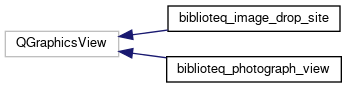
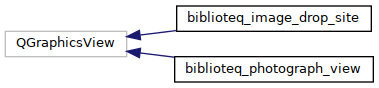
Doxygen.

Changed region(s): [[0.0288, 0.0455, 0.951, 0.9545], [0.9798, 0.6364, 1.0, 0.9318], [0.8934, 0.7045, 0.9222, 0.7273]]

diff --git a/Documentation/Doxygen/html/hierarchy.html b/Documentation/Doxygen/html/hierarchy.html
@@ -87,38 +87,38 @@ This inheritance list is sorted roughly, but not completely, alphabetically:</di
 <tr id="row_6_0_"><td class="entry"><span style="width:32px;display:inline-block;">&#160;</span><span class="icona"><span class="icon">C</span></span><a class="el" href="classbiblioteq__borrowers__editor.html" target="_self">biblioteq_borrowers_editor</a></td><td class="desc"></td></tr>
 <tr id="row_6_1_" class="even"><td class="entry"><span style="width:16px;display:inline-block;">&#160;</span><span id="arr_6_1_" class="arrow" onclick="toggleFolder('6_1_')">&#9660;</span><span class="icona"><span class="icon">C</span></span><a class="el" href="classbiblioteq__copy__editor.html" target="_self">biblioteq_copy_editor</a></td><td class="desc"></td></tr>
 <tr id="row_6_1_0_"><td class="entry"><span style="width:48px;display:inline-block;">&#160;</span><span class="icona"><span class="icon">C</span></span><a class="el" href="classbiblioteq__copy__editor__book.html" target="_self">biblioteq_copy_editor_book</a></td><td class="desc"></td></tr>
-<tr id="row_6_2_" class="even"><td class="entry"><span style="width:32px;display:inline-block;">&#160;</span><span class="icona"><span class="icon">C</span></span><a class="el" href="classbiblioteq__sruresults.html" target="_self">biblioteq_sruresults</a></td><td class="desc"></td></tr>
-<tr id="row_6_3_"><td class="entry"><span style="width:32px;display:inline-block;">&#160;</span><span class="icona"><span class="icon">C</span></span><a class="el" href="classbiblioteq__z3950results.html" target="_self">biblioteq_z3950results</a></td><td class="desc"></td></tr>
-<tr id="row_6_4_" class="even"><td class="entry"><span style="width:32px;display:inline-block;">&#160;</span><span class="icona"><span class="icon">C</span></span><a class="el" href="classuserinfo__diag__class.html" target="_self">userinfo_diag_class</a></td><td class="desc"></td></tr>
-<tr id="row_7_"><td class="entry"><span style="width:0px;display:inline-block;">&#160;</span><span id="arr_7_" class="arrow" onclick="toggleFolder('7_')">&#9660;</span><span class="icona"><span class="icon">C</span></span><b>QGraphicsPixmapItem</b></td><td class="desc"></td></tr>
-<tr id="row_7_0_" class="even"><td class="entry"><span style="width:32px;display:inline-block;">&#160;</span><span class="icona"><span class="icon">C</span></span><a class="el" href="classbiblioteq__graphicsitempixmap.html" target="_self">biblioteq_graphicsitempixmap</a></td><td class="desc"></td></tr>
-<tr id="row_8_"><td class="entry"><span style="width:0px;display:inline-block;">&#160;</span><span id="arr_8_" class="arrow" onclick="toggleFolder('8_')">&#9660;</span><span class="icona"><span class="icon">C</span></span><b>QGraphicsScene</b></td><td class="desc"></td></tr>
-<tr id="row_8_0_" class="even"><td class="entry"><span style="width:32px;display:inline-block;">&#160;</span><span class="icona"><span class="icon">C</span></span><a class="el" href="classbiblioteq__bgraphicsscene.html" target="_self">biblioteq_bgraphicsscene</a></td><td class="desc"></td></tr>
-<tr id="row_9_"><td class="entry"><span style="width:0px;display:inline-block;">&#160;</span><span id="arr_9_" class="arrow" onclick="toggleFolder('9_')">&#9660;</span><span class="icona"><span class="icon">C</span></span><b>QGraphicsView</b></td><td class="desc"></td></tr>
-<tr id="row_9_0_" class="even"><td class="entry"><span style="width:32px;display:inline-block;">&#160;</span><span class="icona"><span class="icon">C</span></span><a class="el" href="classbiblioteq__image__drop__site.html" target="_self">biblioteq_image_drop_site</a></td><td class="desc"></td></tr>
-<tr id="row_9_1_"><td class="entry"><span style="width:32px;display:inline-block;">&#160;</span><span class="icona"><span class="icon">C</span></span><a class="el" href="classbiblioteq__photograph__view.html" target="_self">biblioteq_photograph_view</a></td><td class="desc"></td></tr>
-<tr id="row_10_" class="even"><td class="entry"><span style="width:0px;display:inline-block;">&#160;</span><span id="arr_10_" class="arrow" onclick="toggleFolder('10_')">&#9660;</span><span class="icona"><span class="icon">C</span></span><b>QLineEdit</b></td><td class="desc"></td></tr>
-<tr id="row_10_0_"><td class="entry"><span style="width:32px;display:inline-block;">&#160;</span><span class="icona"><span class="icon">C</span></span><a class="el" href="classbiblioteq__otheroptions__shortcut__lineedit.html" target="_self">biblioteq_otheroptions_shortcut_lineedit</a></td><td class="desc"></td></tr>
-<tr id="row_11_" class="even"><td class="entry"><span style="width:0px;display:inline-block;">&#160;</span><span id="arr_11_" class="arrow" onclick="toggleFolder('11_')">&#9660;</span><span class="icona"><span class="icon">C</span></span><b>QMainWindow</b></td><td class="desc"></td></tr>
-<tr id="row_11_0_"><td class="entry"><span style="width:32px;display:inline-block;">&#160;</span><span class="icona"><span class="icon">C</span></span><a class="el" href="classbiblioteq.html" target="_self">biblioteq</a></td><td class="desc"></td></tr>
-<tr id="row_11_1_" class="even"><td class="entry"><span style="width:32px;display:inline-block;">&#160;</span><span class="icona"><span class="icon">C</span></span><a class="el" href="classbiblioteq__batch__activities.html" target="_self">biblioteq_batch_activities</a></td><td class="desc"></td></tr>
-<tr id="row_11_2_"><td class="entry"><span style="width:32px;display:inline-block;">&#160;</span><span class="icona"><span class="icon">C</span></span><a class="el" href="classbiblioteq__book.html" target="_self">biblioteq_book</a></td><td class="desc"></td></tr>
-<tr id="row_11_3_" class="even"><td class="entry"><span style="width:32px;display:inline-block;">&#160;</span><span class="icona"><span class="icon">C</span></span><a class="el" href="classbiblioteq__cd.html" target="_self">biblioteq_cd</a></td><td class="desc"></td></tr>
-<tr id="row_11_4_"><td class="entry"><span style="width:32px;display:inline-block;">&#160;</span><span class="icona"><span class="icon">C</span></span><a class="el" href="classbiblioteq__custom__query.html" target="_self">biblioteq_custom_query</a></td><td class="desc"></td></tr>
-<tr id="row_11_5_" class="even"><td class="entry"><span style="width:32px;display:inline-block;">&#160;</span><span class="icona"><span class="icon">C</span></span><a class="el" href="classbiblioteq__dbenumerations.html" target="_self">biblioteq_dbenumerations</a></td><td class="desc"></td></tr>
-<tr id="row_11_6_"><td class="entry"><span style="width:32px;display:inline-block;">&#160;</span><span class="icona"><span class="icon">C</span></span><a class="el" href="classbiblioteq__documentationwindow.html" target="_self">biblioteq_documentationwindow</a></td><td class="desc"></td></tr>
-<tr id="row_11_7_" class="even"><td class="entry"><span style="width:32px;display:inline-block;">&#160;</span><span class="icona"><span class="icon">C</span></span><a class="el" href="classbiblioteq__dvd.html" target="_self">biblioteq_dvd</a></td><td class="desc"></td></tr>
-<tr id="row_11_8_"><td class="entry"><span style="width:32px;display:inline-block;">&#160;</span><span class="icona"><span class="icon">C</span></span><a class="el" href="classbiblioteq__files.html" target="_self">biblioteq_files</a></td><td class="desc"></td></tr>
-<tr id="row_11_9_" class="even"><td class="entry"><span style="width:32px;display:inline-block;">&#160;</span><span class="icona"><span class="icon">C</span></span><a class="el" href="classbiblioteq__grey__literature.html" target="_self">biblioteq_grey_literature</a></td><td class="desc"></td></tr>
-<tr id="row_11_10_"><td class="entry"><span style="width:32px;display:inline-block;">&#160;</span><span class="icona"><span class="icon">C</span></span><a class="el" href="classbiblioteq__import.html" target="_self">biblioteq_import</a></td><td class="desc"></td></tr>
-<tr id="row_11_11_" class="even"><td class="entry"><span style="width:32px;display:inline-block;">&#160;</span><span class="icona"><span class="icon">C</span></span><a class="el" href="classbiblioteq__magazine.html" target="_self">biblioteq_magazine</a></td><td class="desc"></td></tr>
-<tr id="row_11_12_"><td class="entry"><span style="width:32px;display:inline-block;">&#160;</span><span class="icona"><span class="icon">C</span></span><a class="el" href="classbiblioteq__magic.html" target="_self">biblioteq_magic</a></td><td class="desc"></td></tr>
-<tr id="row_11_13_" class="even"><td class="entry"><span style="width:32px;display:inline-block;">&#160;</span><span class="icona"><span class="icon">C</span></span><a class="el" href="classbiblioteq__otheroptions.html" target="_self">biblioteq_otheroptions</a></td><td class="desc"></td></tr>
-<tr id="row_11_14_"><td class="entry"><span style="width:32px;display:inline-block;">&#160;</span><span class="icona"><span class="icon">C</span></span><a class="el" href="classbiblioteq__pdfreader.html" target="_self">biblioteq_pdfreader</a></td><td class="desc"></td></tr>
-<tr id="row_11_15_" class="even"><td class="entry"><span style="width:32px;display:inline-block;">&#160;</span><span class="icona"><span class="icon">C</span></span><a class="el" href="classbiblioteq__photographcollection.html" target="_self">biblioteq_photographcollection</a></td><td class="desc"></td></tr>
-<tr id="row_11_16_"><td class="entry"><span style="width:32px;display:inline-block;">&#160;</span><span class="icona"><span class="icon">C</span></span><a class="el" href="classbiblioteq__query__history.html" target="_self">biblioteq_query_history</a></td><td class="desc"></td></tr>
-<tr id="row_11_17_" class="even"><td class="entry"><span style="width:32px;display:inline-block;">&#160;</span><span class="icona"><span class="icon">C</span></span><a class="el" href="classbiblioteq__sqlite__merge__databases.html" target="_self">biblioteq_sqlite_merge_databases</a></td><td class="desc"></td></tr>
-<tr id="row_11_18_"><td class="entry"><span style="width:32px;display:inline-block;">&#160;</span><span class="icona"><span class="icon">C</span></span><a class="el" href="classbiblioteq__videogame.html" target="_self">biblioteq_videogame</a></td><td class="desc"></td></tr>
+<tr id="row_6_2_" class="even"><td class="entry"><span style="width:32px;display:inline-block;">&#160;</span><span class="icona"><span class="icon">C</span></span><a class="el" href="classbiblioteq__query__history.html" target="_self">biblioteq_query_history</a></td><td class="desc"></td></tr>
+<tr id="row_6_3_"><td class="entry"><span style="width:32px;display:inline-block;">&#160;</span><span class="icona"><span class="icon">C</span></span><a class="el" href="classbiblioteq__sruresults.html" target="_self">biblioteq_sruresults</a></td><td class="desc"></td></tr>
+<tr id="row_6_4_" class="even"><td class="entry"><span style="width:32px;display:inline-block;">&#160;</span><span class="icona"><span class="icon">C</span></span><a class="el" href="classbiblioteq__z3950results.html" target="_self">biblioteq_z3950results</a></td><td class="desc"></td></tr>
+<tr id="row_6_5_"><td class="entry"><span style="width:32px;display:inline-block;">&#160;</span><span class="icona"><span class="icon">C</span></span><a class="el" href="classuserinfo__diag__class.html" target="_self">userinfo_diag_class</a></td><td class="desc"></td></tr>
+<tr id="row_7_" class="even"><td class="entry"><span style="width:0px;display:inline-block;">&#160;</span><span id="arr_7_" class="arrow" onclick="toggleFolder('7_')">&#9660;</span><span class="icona"><span class="icon">C</span></span><b>QGraphicsPixmapItem</b></td><td class="desc"></td></tr>
+<tr id="row_7_0_"><td class="entry"><span style="width:32px;display:inline-block;">&#160;</span><span class="icona"><span class="icon">C</span></span><a class="el" href="classbiblioteq__graphicsitempixmap.html" target="_self">biblioteq_graphicsitempixmap</a></td><td class="desc"></td></tr>
+<tr id="row_8_" class="even"><td class="entry"><span style="width:0px;display:inline-block;">&#160;</span><span id="arr_8_" class="arrow" onclick="toggleFolder('8_')">&#9660;</span><span class="icona"><span class="icon">C</span></span><b>QGraphicsScene</b></td><td class="desc"></td></tr>
+<tr id="row_8_0_"><td class="entry"><span style="width:32px;display:inline-block;">&#160;</span><span class="icona"><span class="icon">C</span></span><a class="el" href="classbiblioteq__bgraphicsscene.html" target="_self">biblioteq_bgraphicsscene</a></td><td class="desc"></td></tr>
+<tr id="row_9_" class="even"><td class="entry"><span style="width:0px;display:inline-block;">&#160;</span><span id="arr_9_" class="arrow" onclick="toggleFolder('9_')">&#9660;</span><span class="icona"><span class="icon">C</span></span><b>QGraphicsView</b></td><td class="desc"></td></tr>
+<tr id="row_9_0_"><td class="entry"><span style="width:32px;display:inline-block;">&#160;</span><span class="icona"><span class="icon">C</span></span><a class="el" href="classbiblioteq__image__drop__site.html" target="_self">biblioteq_image_drop_site</a></td><td class="desc"></td></tr>
+<tr id="row_9_1_" class="even"><td class="entry"><span style="width:32px;display:inline-block;">&#160;</span><span class="icona"><span class="icon">C</span></span><a class="el" href="classbiblioteq__photograph__view.html" target="_self">biblioteq_photograph_view</a></td><td class="desc"></td></tr>
+<tr id="row_10_"><td class="entry"><span style="width:0px;display:inline-block;">&#160;</span><span id="arr_10_" class="arrow" onclick="toggleFolder('10_')">&#9660;</span><span class="icona"><span class="icon">C</span></span><b>QLineEdit</b></td><td class="desc"></td></tr>
+<tr id="row_10_0_" class="even"><td class="entry"><span style="width:32px;display:inline-block;">&#160;</span><span class="icona"><span class="icon">C</span></span><a class="el" href="classbiblioteq__otheroptions__shortcut__lineedit.html" target="_self">biblioteq_otheroptions_shortcut_lineedit</a></td><td class="desc"></td></tr>
+<tr id="row_11_"><td class="entry"><span style="width:0px;display:inline-block;">&#160;</span><span id="arr_11_" class="arrow" onclick="toggleFolder('11_')">&#9660;</span><span class="icona"><span class="icon">C</span></span><b>QMainWindow</b></td><td class="desc"></td></tr>
+<tr id="row_11_0_" class="even"><td class="entry"><span style="width:32px;display:inline-block;">&#160;</span><span class="icona"><span class="icon">C</span></span><a class="el" href="classbiblioteq.html" target="_self">biblioteq</a></td><td class="desc"></td></tr>
+<tr id="row_11_1_"><td class="entry"><span style="width:32px;display:inline-block;">&#160;</span><span class="icona"><span class="icon">C</span></span><a class="el" href="classbiblioteq__batch__activities.html" target="_self">biblioteq_batch_activities</a></td><td class="desc"></td></tr>
+<tr id="row_11_2_" class="even"><td class="entry"><span style="width:32px;display:inline-block;">&#160;</span><span class="icona"><span class="icon">C</span></span><a class="el" href="classbiblioteq__book.html" target="_self">biblioteq_book</a></td><td class="desc"></td></tr>
+<tr id="row_11_3_"><td class="entry"><span style="width:32px;display:inline-block;">&#160;</span><span class="icona"><span class="icon">C</span></span><a class="el" href="classbiblioteq__cd.html" target="_self">biblioteq_cd</a></td><td class="desc"></td></tr>
+<tr id="row_11_4_" class="even"><td class="entry"><span style="width:32px;display:inline-block;">&#160;</span><span class="icona"><span class="icon">C</span></span><a class="el" href="classbiblioteq__custom__query.html" target="_self">biblioteq_custom_query</a></td><td class="desc"></td></tr>
+<tr id="row_11_5_"><td class="entry"><span style="width:32px;display:inline-block;">&#160;</span><span class="icona"><span class="icon">C</span></span><a class="el" href="classbiblioteq__dbenumerations.html" target="_self">biblioteq_dbenumerations</a></td><td class="desc"></td></tr>
+<tr id="row_11_6_" class="even"><td class="entry"><span style="width:32px;display:inline-block;">&#160;</span><span class="icona"><span class="icon">C</span></span><a class="el" href="classbiblioteq__documentationwindow.html" target="_self">biblioteq_documentationwindow</a></td><td class="desc"></td></tr>
+<tr id="row_11_7_"><td class="entry"><span style="width:32px;display:inline-block;">&#160;</span><span class="icona"><span class="icon">C</span></span><a class="el" href="classbiblioteq__dvd.html" target="_self">biblioteq_dvd</a></td><td class="desc"></td></tr>
+<tr id="row_11_8_" class="even"><td class="entry"><span style="width:32px;display:inline-block;">&#160;</span><span class="icona"><span class="icon">C</span></span><a class="el" href="classbiblioteq__files.html" target="_self">biblioteq_files</a></td><td class="desc"></td></tr>
+<tr id="row_11_9_"><td class="entry"><span style="width:32px;display:inline-block;">&#160;</span><span class="icona"><span class="icon">C</span></span><a class="el" href="classbiblioteq__grey__literature.html" target="_self">biblioteq_grey_literature</a></td><td class="desc"></td></tr>
+<tr id="row_11_10_" class="even"><td class="entry"><span style="width:32px;display:inline-block;">&#160;</span><span class="icona"><span class="icon">C</span></span><a class="el" href="classbiblioteq__import.html" target="_self">biblioteq_import</a></td><td class="desc"></td></tr>
+<tr id="row_11_11_"><td class="entry"><span style="width:32px;display:inline-block;">&#160;</span><span class="icona"><span class="icon">C</span></span><a class="el" href="classbiblioteq__magazine.html" target="_self">biblioteq_magazine</a></td><td class="desc"></td></tr>
+<tr id="row_11_12_" class="even"><td class="entry"><span style="width:32px;display:inline-block;">&#160;</span><span class="icona"><span class="icon">C</span></span><a class="el" href="classbiblioteq__magic.html" target="_self">biblioteq_magic</a></td><td class="desc"></td></tr>
+<tr id="row_11_13_"><td class="entry"><span style="width:32px;display:inline-block;">&#160;</span><span class="icona"><span class="icon">C</span></span><a class="el" href="classbiblioteq__otheroptions.html" target="_self">biblioteq_otheroptions</a></td><td class="desc"></td></tr>
+<tr id="row_11_14_" class="even"><td class="entry"><span style="width:32px;display:inline-block;">&#160;</span><span class="icona"><span class="icon">C</span></span><a class="el" href="classbiblioteq__pdfreader.html" target="_self">biblioteq_pdfreader</a></td><td class="desc"></td></tr>
+<tr id="row_11_15_"><td class="entry"><span style="width:32px;display:inline-block;">&#160;</span><span class="icona"><span class="icon">C</span></span><a class="el" href="classbiblioteq__photographcollection.html" target="_self">biblioteq_photographcollection</a></td><td class="desc"></td></tr>
+<tr id="row_11_16_" class="even"><td class="entry"><span style="width:32px;display:inline-block;">&#160;</span><span class="icona"><span class="icon">C</span></span><a class="el" href="classbiblioteq__sqlite__merge__databases.html" target="_self">biblioteq_sqlite_merge_databases</a></td><td class="desc"></td></tr>
+<tr id="row_11_17_"><td class="entry"><span style="width:32px;display:inline-block;">&#160;</span><span class="icona"><span class="icon">C</span></span><a class="el" href="classbiblioteq__videogame.html" target="_self">biblioteq_videogame</a></td><td class="desc"></td></tr>
 <tr id="row_12_" class="even"><td class="entry"><span style="width:0px;display:inline-block;">&#160;</span><span id="arr_12_" class="arrow" onclick="toggleFolder('12_')">&#9660;</span><span class="icona"><span class="icon">C</span></span><b>QNetworkAccessManager</b></td><td class="desc"></td></tr>
 <tr id="row_12_0_"><td class="entry"><span style="width:32px;display:inline-block;">&#160;</span><span class="icona"><span class="icon">C</span></span><a class="el" href="classswifty.html" target="_self">swifty</a></td><td class="desc"></td></tr>
 <tr id="row_13_" class="even"><td class="entry"><span style="width:0px;display:inline-block;">&#160;</span><span id="arr_13_" class="arrow" onclick="toggleFolder('13_')">&#9660;</span><span class="icona"><span class="icon">C</span></span><b>QProgressDialog</b></td><td class="desc"></td></tr>

diff --git a/Documentation/Doxygen/html/inherits.html b/Documentation/Doxygen/html/inherits.html
@@ -70,8 +70,8 @@ $(function() {
 </div><table border="0" cellspacing="10" cellpadding="0">
 <tr><td><img src="inherit_graph_0.png" border="0" usemap="#abiblioteq__bgraphicsscene" alt=""/>
 <map name="abiblioteq__bgraphicsscene" id="abiblioteq__bgraphicsscene">
-<area shape="rect" title=" " alt="" coords="5,5,127,32"/>
-<area shape="rect" href="classbiblioteq__bgraphicsscene.html" title=" " alt="" coords="175,5,343,32"/>
+<area shape="rect" title=" " alt="" coords="5,5,133,32"/>
+<area shape="rect" href="classbiblioteq__bgraphicsscene.html" title=" " alt="" coords="181,5,368,32"/>
 </map>
 </td></tr>
 <tr><td><img src="inherit_graph_1.png" border="0" usemap="#abiblioteq__boolean__table__item" alt=""/>
@@ -85,13 +85,14 @@ $(function() {
 </td></tr>
 <tr><td><img src="inherit_graph_2.png" border="0" usemap="#abiblioteq__borrowers__editor" alt=""/>
 <map name="abiblioteq__borrowers__editor" id="abiblioteq__borrowers__editor">
-<area shape="rect" title=" " alt="" coords="5,122,73,149"/>
-<area shape="rect" href="classbiblioteq__borrowers__editor.html" title=" " alt="" coords="129,5,264,47"/>
-<area shape="rect" href="classbiblioteq__copy__editor.html" title=" " alt="" coords="125,71,268,98"/>
-<area shape="rect" href="classbiblioteq__sruresults.html" title=" " alt="" coords="129,122,264,149"/>
-<area shape="rect" href="classbiblioteq__z3950results.html" title=" " alt="" coords="121,173,272,199"/>
-<area shape="rect" href="classuserinfo__diag__class.html" title=" " alt="" coords="128,223,265,250"/>
-<area shape="rect" href="classbiblioteq__copy__editor__book.html" title=" " alt="" coords="320,71,499,98"/>
+<area shape="rect" title=" " alt="" coords="5,147,80,174"/>
+<area shape="rect" href="classbiblioteq__borrowers__editor.html" title=" " alt="" coords="140,5,291,47"/>
+<area shape="rect" href="classbiblioteq__copy__editor.html" title=" " alt="" coords="134,71,297,98"/>
+<area shape="rect" href="classbiblioteq__query__history.html" title=" " alt="" coords="128,122,303,149"/>
+<area shape="rect" href="classbiblioteq__sruresults.html" title=" " alt="" coords="140,173,291,199"/>
+<area shape="rect" href="classbiblioteq__z3950results.html" title=" " alt="" coords="131,223,300,250"/>
+<area shape="rect" href="classuserinfo__diag__class.html" title=" " alt="" coords="140,274,291,301"/>
+<area shape="rect" href="classbiblioteq__copy__editor__book.html" title=" " alt="" coords="351,71,552,98"/>
 </map>
 </td></tr>
 <tr><td><img src="inherit_graph_3.png" border="0" usemap="#abiblioteq__generic__thread" alt=""/>
@@ -102,8 +103,8 @@ $(function() {
 </td></tr>
 <tr><td><img src="inherit_graph_4.png" border="0" usemap="#abiblioteq__graphicsitempixmap" alt=""/>
 <map name="abiblioteq__graphicsitempixmap" id="abiblioteq__graphicsitempixmap">
-<area shape="rect" title=" " alt="" coords="5,5,159,32"/>
-<area shape="rect" href="classbiblioteq__graphicsitempixmap.html" title=" " alt="" coords="207,5,399,32"/>
+<area shape="rect" title=" " alt="" coords="5,5,173,32"/>
+<area shape="rect" href="classbiblioteq__graphicsitempixmap.html" title=" " alt="" coords="221,5,441,32"/>
 </map>
 </td></tr>
 <tr><td><img src="inherit_graph_5.png" border="0" usemap="#abiblioteq__hyperlinked__text__edit" alt=""/>
@@ -114,35 +115,34 @@ $(function() {
 </td></tr>
 <tr><td><img src="inherit_graph_6.png" border="0" usemap="#abiblioteq__image__drop__site" alt=""/>
 <map name="abiblioteq__image__drop__site" id="abiblioteq__image__drop__site">
-<area shape="rect" title=" " alt="" coords="5,31,119,57"/>
-<area shape="rect" href="classbiblioteq__image__drop__site.html" title=" " alt="" coords="168,5,340,32"/>
-<area shape="rect" href="classbiblioteq__photograph__view.html" title=" " alt="" coords="167,56,341,83"/>
+<area shape="rect" title=" " alt="" coords="5,31,127,57"/>
+<area shape="rect" href="classbiblioteq__image__drop__site.html" title=" " alt="" coords="177,5,371,32"/>
+<area shape="rect" href="classbiblioteq__photograph__view.html" title=" " alt="" coords="175,56,373,83"/>
 </map>
 </td></tr>
 <tr><td><img src="inherit_graph_7.png" border="0" usemap="#abiblioteq__item" alt=""/>
 <map name="abiblioteq__item" id="abiblioteq__item">
 <area shape="rect" href="classbiblioteq__item.html" title=" " alt="" coords="5,157,121,184"/>
-<area shape="rect" href="classbiblioteq__book.html" title=" " alt="" coords="227,5,346,32"/>
-<area shape="rect" href="classbiblioteq__cd.html" title=" " alt="" coords="236,56,337,83"/>
-<area shape="rect" href="classbiblioteq__dvd.html" title=" " alt="" coords="231,107,342,133"/>
-<area shape="rect" href="classbiblioteq__grey__literature.html" title=" " alt="" coords="195,157,378,184"/>
-<area shape="rect" href="classbiblioteq__magazine.html" title=" " alt="" coords="211,208,362,235"/>
-<area shape="rect" href="classbiblioteq__photographcollection.html" title=" " alt="" coords="175,259,398,285"/>
-<area shape="rect" href="classbiblioteq__videogame.html" title=" " alt="" coords="207,309,366,336"/>
-<area shape="rect" href="classbiblioteq__journal.html" title=" " alt="" coords="452,208,583,235"/>
-<area shape="rect" title=" " alt="" coords="5,461,121,488"/>
-<area shape="rect" href="classbiblioteq.html" title=" " alt="" coords="247,832,326,859"/>
-<area shape="rect" href="classbiblioteq__batch__activities.html" title=" " alt="" coords="192,883,381,909"/>
-<area shape="rect" href="classbiblioteq__custom__query.html" title=" " alt="" coords="197,933,376,960"/>
-<area shape="rect" href="classbiblioteq__dbenumerations.html" title=" " alt="" coords="191,360,383,387"/>
-<area shape="rect" href="classbiblioteq__documentationwindow.html" title=" " alt="" coords="169,411,404,437"/>
-<area shape="rect" href="classbiblioteq__files.html" title=" " alt="" coords="230,461,343,488"/>
-<area shape="rect" href="classbiblioteq__import.html" title=" " alt="" coords="222,512,351,539"/>
-<area shape="rect" href="classbiblioteq__magic.html" title=" " alt="" coords="223,563,350,589"/>
-<area shape="rect" href="classbiblioteq__otheroptions.html" title=" " alt="" coords="203,613,371,640"/>
-<area shape="rect" href="classbiblioteq__pdfreader.html" title=" " alt="" coords="212,664,361,691"/>
-<area shape="rect" href="classbiblioteq__query__history.html" title=" " alt="" coords="199,715,374,741"/>
-<area shape="rect" href="classbiblioteq__sqlite__merge__databases.html" title=" " alt="" coords="201,766,372,807"/>
+<area shape="rect" href="classbiblioteq__book.html" title=" " alt="" coords="227,208,346,235"/>
+<area shape="rect" href="classbiblioteq__cd.html" title=" " alt="" coords="236,259,337,285"/>
+<area shape="rect" href="classbiblioteq__dvd.html" title=" " alt="" coords="231,309,342,336"/>
+<area shape="rect" href="classbiblioteq__grey__literature.html" title=" " alt="" coords="195,5,378,32"/>
+<area shape="rect" href="classbiblioteq__magazine.html" title=" " alt="" coords="211,56,362,83"/>
+<area shape="rect" href="classbiblioteq__photographcollection.html" title=" " alt="" coords="175,107,398,133"/>
+<area shape="rect" href="classbiblioteq__videogame.html" title=" " alt="" coords="207,157,366,184"/>
+<area shape="rect" href="classbiblioteq__journal.html" title=" " alt="" coords="452,56,583,83"/>
+<area shape="rect" title=" " alt="" coords="5,436,121,463"/>
+<area shape="rect" href="classbiblioteq.html" title=" " alt="" coords="247,883,326,909"/>
+<area shape="rect" href="classbiblioteq__batch__activities.html" title=" " alt="" coords="192,360,381,387"/>
+<area shape="rect" href="classbiblioteq__custom__query.html" title=" " alt="" coords="197,411,376,437"/>
+<area shape="rect" href="classbiblioteq__dbenumerations.html" title=" " alt="" coords="191,461,383,488"/>
+<area shape="rect" href="classbiblioteq__documentationwindow.html" title=" " alt="" coords="169,512,404,539"/>
+<area shape="rect" href="classbiblioteq__files.html" title=" " alt="" coords="230,563,343,589"/>
+<area shape="rect" href="classbiblioteq__import.html" title=" " alt="" coords="222,613,351,640"/>
+<area shape="rect" href="classbiblioteq__magic.html" title=" " alt="" coords="223,664,350,691"/>
+<area shape="rect" href="classbiblioteq__otheroptions.html" title=" " alt="" coords="203,715,371,741"/>
+<area shape="rect" href="classbiblioteq__pdfreader.html" title=" " alt="" coords="212,765,361,792"/>
+<area shape="rect" href="classbiblioteq__sqlite__merge__databases.html" title=" " alt="" coords="201,817,372,858"/>
 </map>
 </td></tr>
 <tr><td><img src="inherit_graph_8.png" border="0" usemap="#abiblioteq__item__working__dialog" alt=""/>
@@ -186,8 +186,8 @@ $(function() {
 </td></tr>
 <tr><td><img src="inherit_graph_15.png" border="0" usemap="#abiblioteq__otheroptions__shortcut__lineedit" alt=""/>
 <map name="abiblioteq__otheroptions__shortcut__lineedit" id="abiblioteq__otheroptions__shortcut__lineedit">
-<area shape="rect" title=" " alt="" coords="5,13,84,39"/>
-<area shape="rect" href="classbiblioteq__otheroptions__shortcut__lineedit.html" title=" " alt="" coords="132,5,280,47"/>
+<area shape="rect" title=" " alt="" coords="5,13,89,39"/>
+<area shape="rect" href="classbiblioteq__otheroptions__shortcut__lineedit.html" title=" " alt="" coords="137,5,305,47"/>
 </map>
 </td></tr>
 <tr><td><img src="inherit_graph_16.png" border="0" usemap="#abiblioteq__sql__syntax__highlighter" alt=""/>

diff --git a/Documentation/Doxygen/html/classbiblioteq__query__history.html b/Documentation/Doxygen/html/classbiblioteq__query__history.html
@@ -75,7 +75,7 @@ Inheritance diagram for biblioteq_query_history:</div>
 <div class="center"><img src="classbiblioteq__query__history__inherit__graph.png" border="0" usemap="#abiblioteq__query__history_inherit__map" alt="Inheritance graph"/></div>
 <map name="abiblioteq__query__history_inherit__map" id="abiblioteq__query__history_inherit__map">
 <area shape="rect" title=" " alt="" coords="5,80,180,107"/>
-<area shape="rect" title=" " alt="" coords="35,5,151,32"/>
+<area shape="rect" title=" " alt="" coords="55,5,130,32"/>
 </map>
 <center><span class="legend">[<a href="graph_legend.html">legend</a>]</span></center></div>
 <div class="dynheader">
@@ -84,7 +84,7 @@ Collaboration diagram for biblioteq_query_history:</div>
 <div class="center"><img src="classbiblioteq__query__history__coll__graph.png" border="0" usemap="#abiblioteq__query__history_coll__map" alt="Collaboration graph"/></div>
 <map name="abiblioteq__query__history_coll__map" id="abiblioteq__query__history_coll__map">
 <area shape="rect" title=" " alt="" coords="5,80,180,107"/>
-<area shape="rect" title=" " alt="" coords="35,5,151,32"/>
+<area shape="rect" title=" " alt="" coords="55,5,130,32"/>
 </map>
 <center><span class="legend">[<a href="graph_legend.html">legend</a>]</span></center></div>
 <table class="memberdecls">

diff --git a/Documentation/Doxygen/html/biblioteq__query__history_8h_source.html b/Documentation/Doxygen/html/biblioteq__query__history_8h_source.html
@@ -105,7 +105,7 @@ $(function() {
 <div class="line"><a name="l00034"></a><span class="lineno">   34</span>&#160; </div>
 <div class="line"><a name="l00035"></a><span class="lineno">   35</span>&#160;<span class="keyword">class </span><a class="code" href="classbiblioteq.html">biblioteq</a>;</div>
 <div class="line"><a name="l00036"></a><span class="lineno">   36</span>&#160; </div>
-<div class="line"><a name="l00037"></a><span class="lineno"><a class="line" href="classbiblioteq__query__history.html">   37</a></span>&#160;<span class="keyword">class </span><a class="code" href="classbiblioteq__query__history.html">biblioteq_query_history</a>: <span class="keyword">public</span> QMainWindow</div>
+<div class="line"><a name="l00037"></a><span class="lineno"><a class="line" href="classbiblioteq__query__history.html">   37</a></span>&#160;<span class="keyword">class </span><a class="code" href="classbiblioteq__query__history.html">biblioteq_query_history</a>: <span class="keyword">public</span> QDialog</div>
 <div class="line"><a name="l00038"></a><span class="lineno">   38</span>&#160;{</div>
 <div class="line"><a name="l00039"></a><span class="lineno">   39</span>&#160;  Q_OBJECT</div>
 <div class="line"><a name="l00040"></a><span class="lineno">   40</span>&#160; </div>
